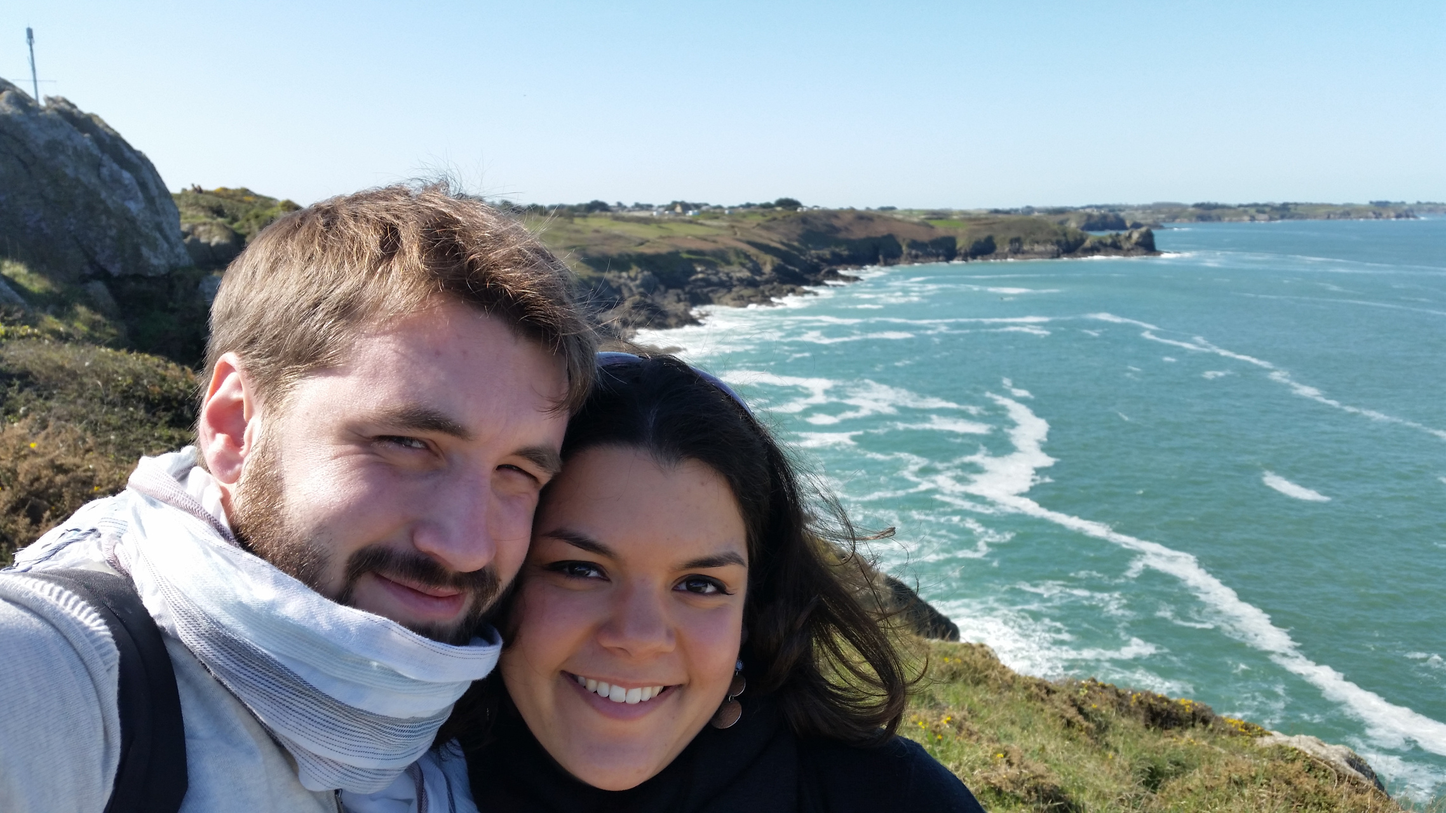
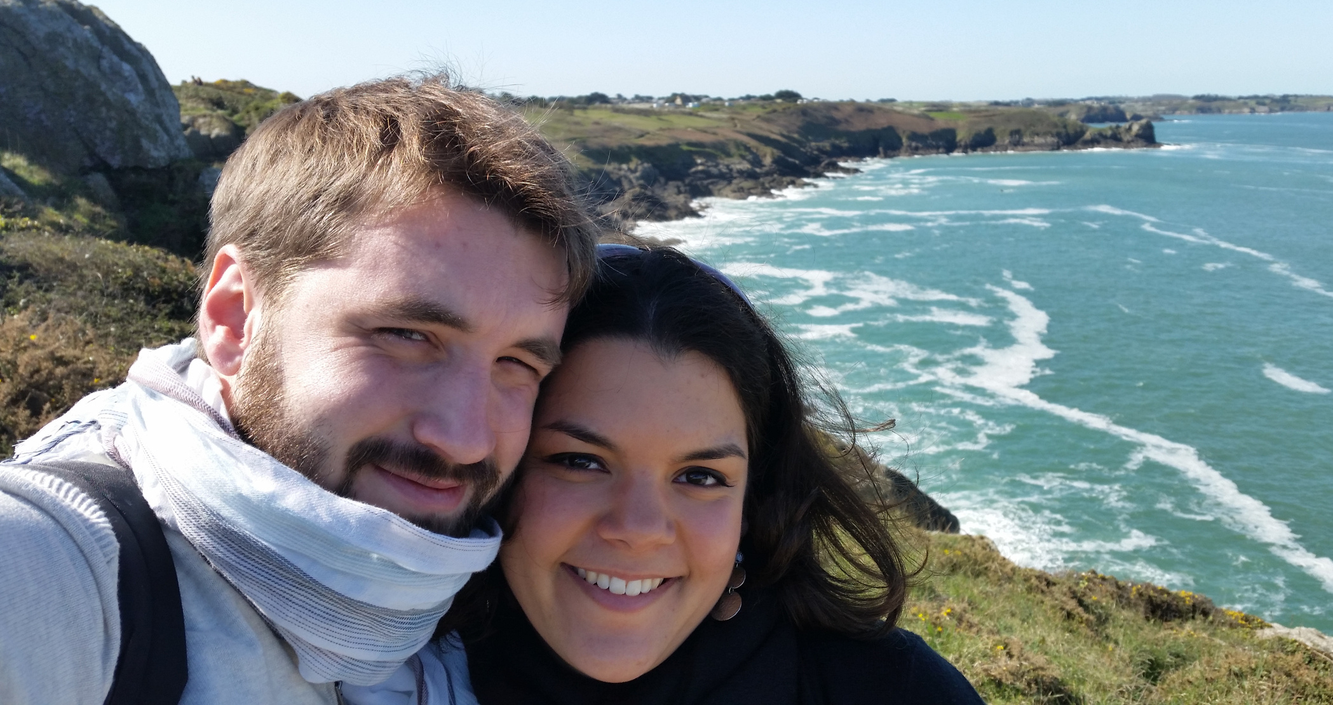
improve layout

diff --git a/index.html b/index.html
@@ -15,7 +15,7 @@
       .bgimg {
         background-image: url('20150412_120044.jpg');
         min-height: 100%;
-        background-position: center;
+        background-position: 35% 0%;
         background-size: cover;
       }
     </style>
@@ -25,7 +25,8 @@
       <div class="w3-display-middle">
         <h1 class="w3-jumbo w3-animate-top">Jennifer & Mathieu</h1>
         <hr class="w3-border-grey" style="margin:auto;width:40%">
-        <p class="w3-large w3-center">22 mai 2021<br>Plus d'informations prochainement.</p>
+        <p class="w3-xxlarge w3-center">22 mai 2021</p>
+        <p class="w3-large w3-center">Plus d'informations prochainement.</p>
       </div>
     </div>
   </body>
